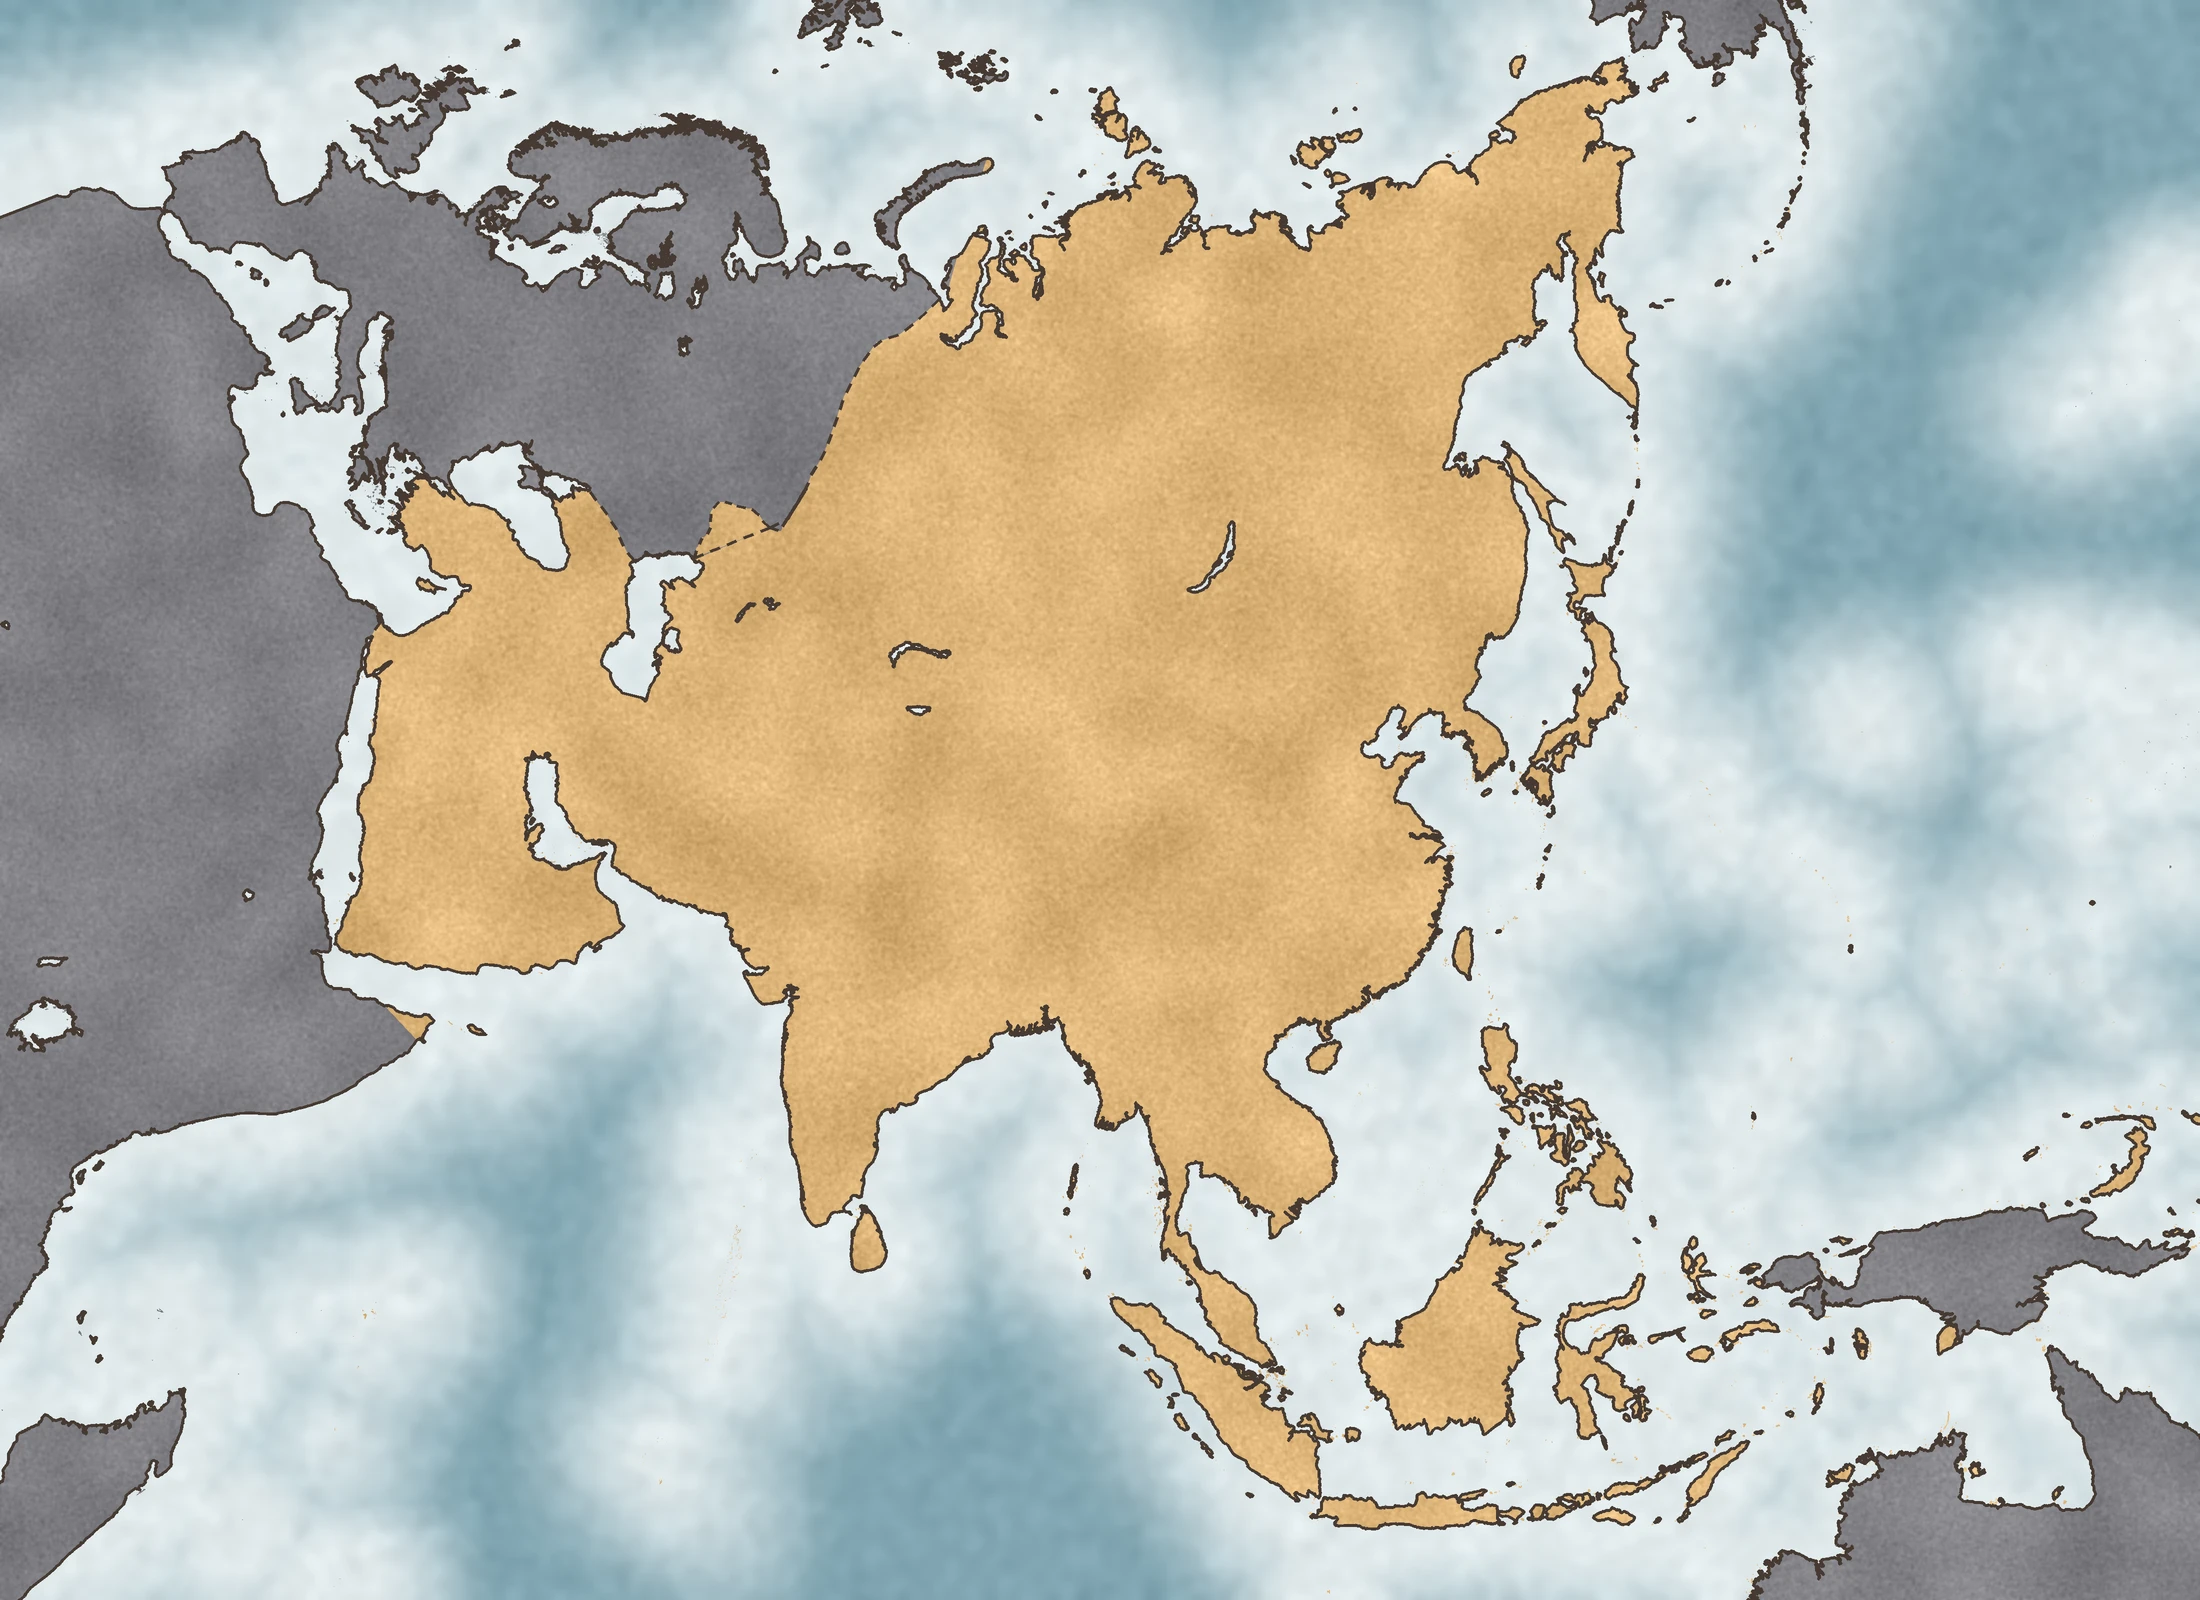
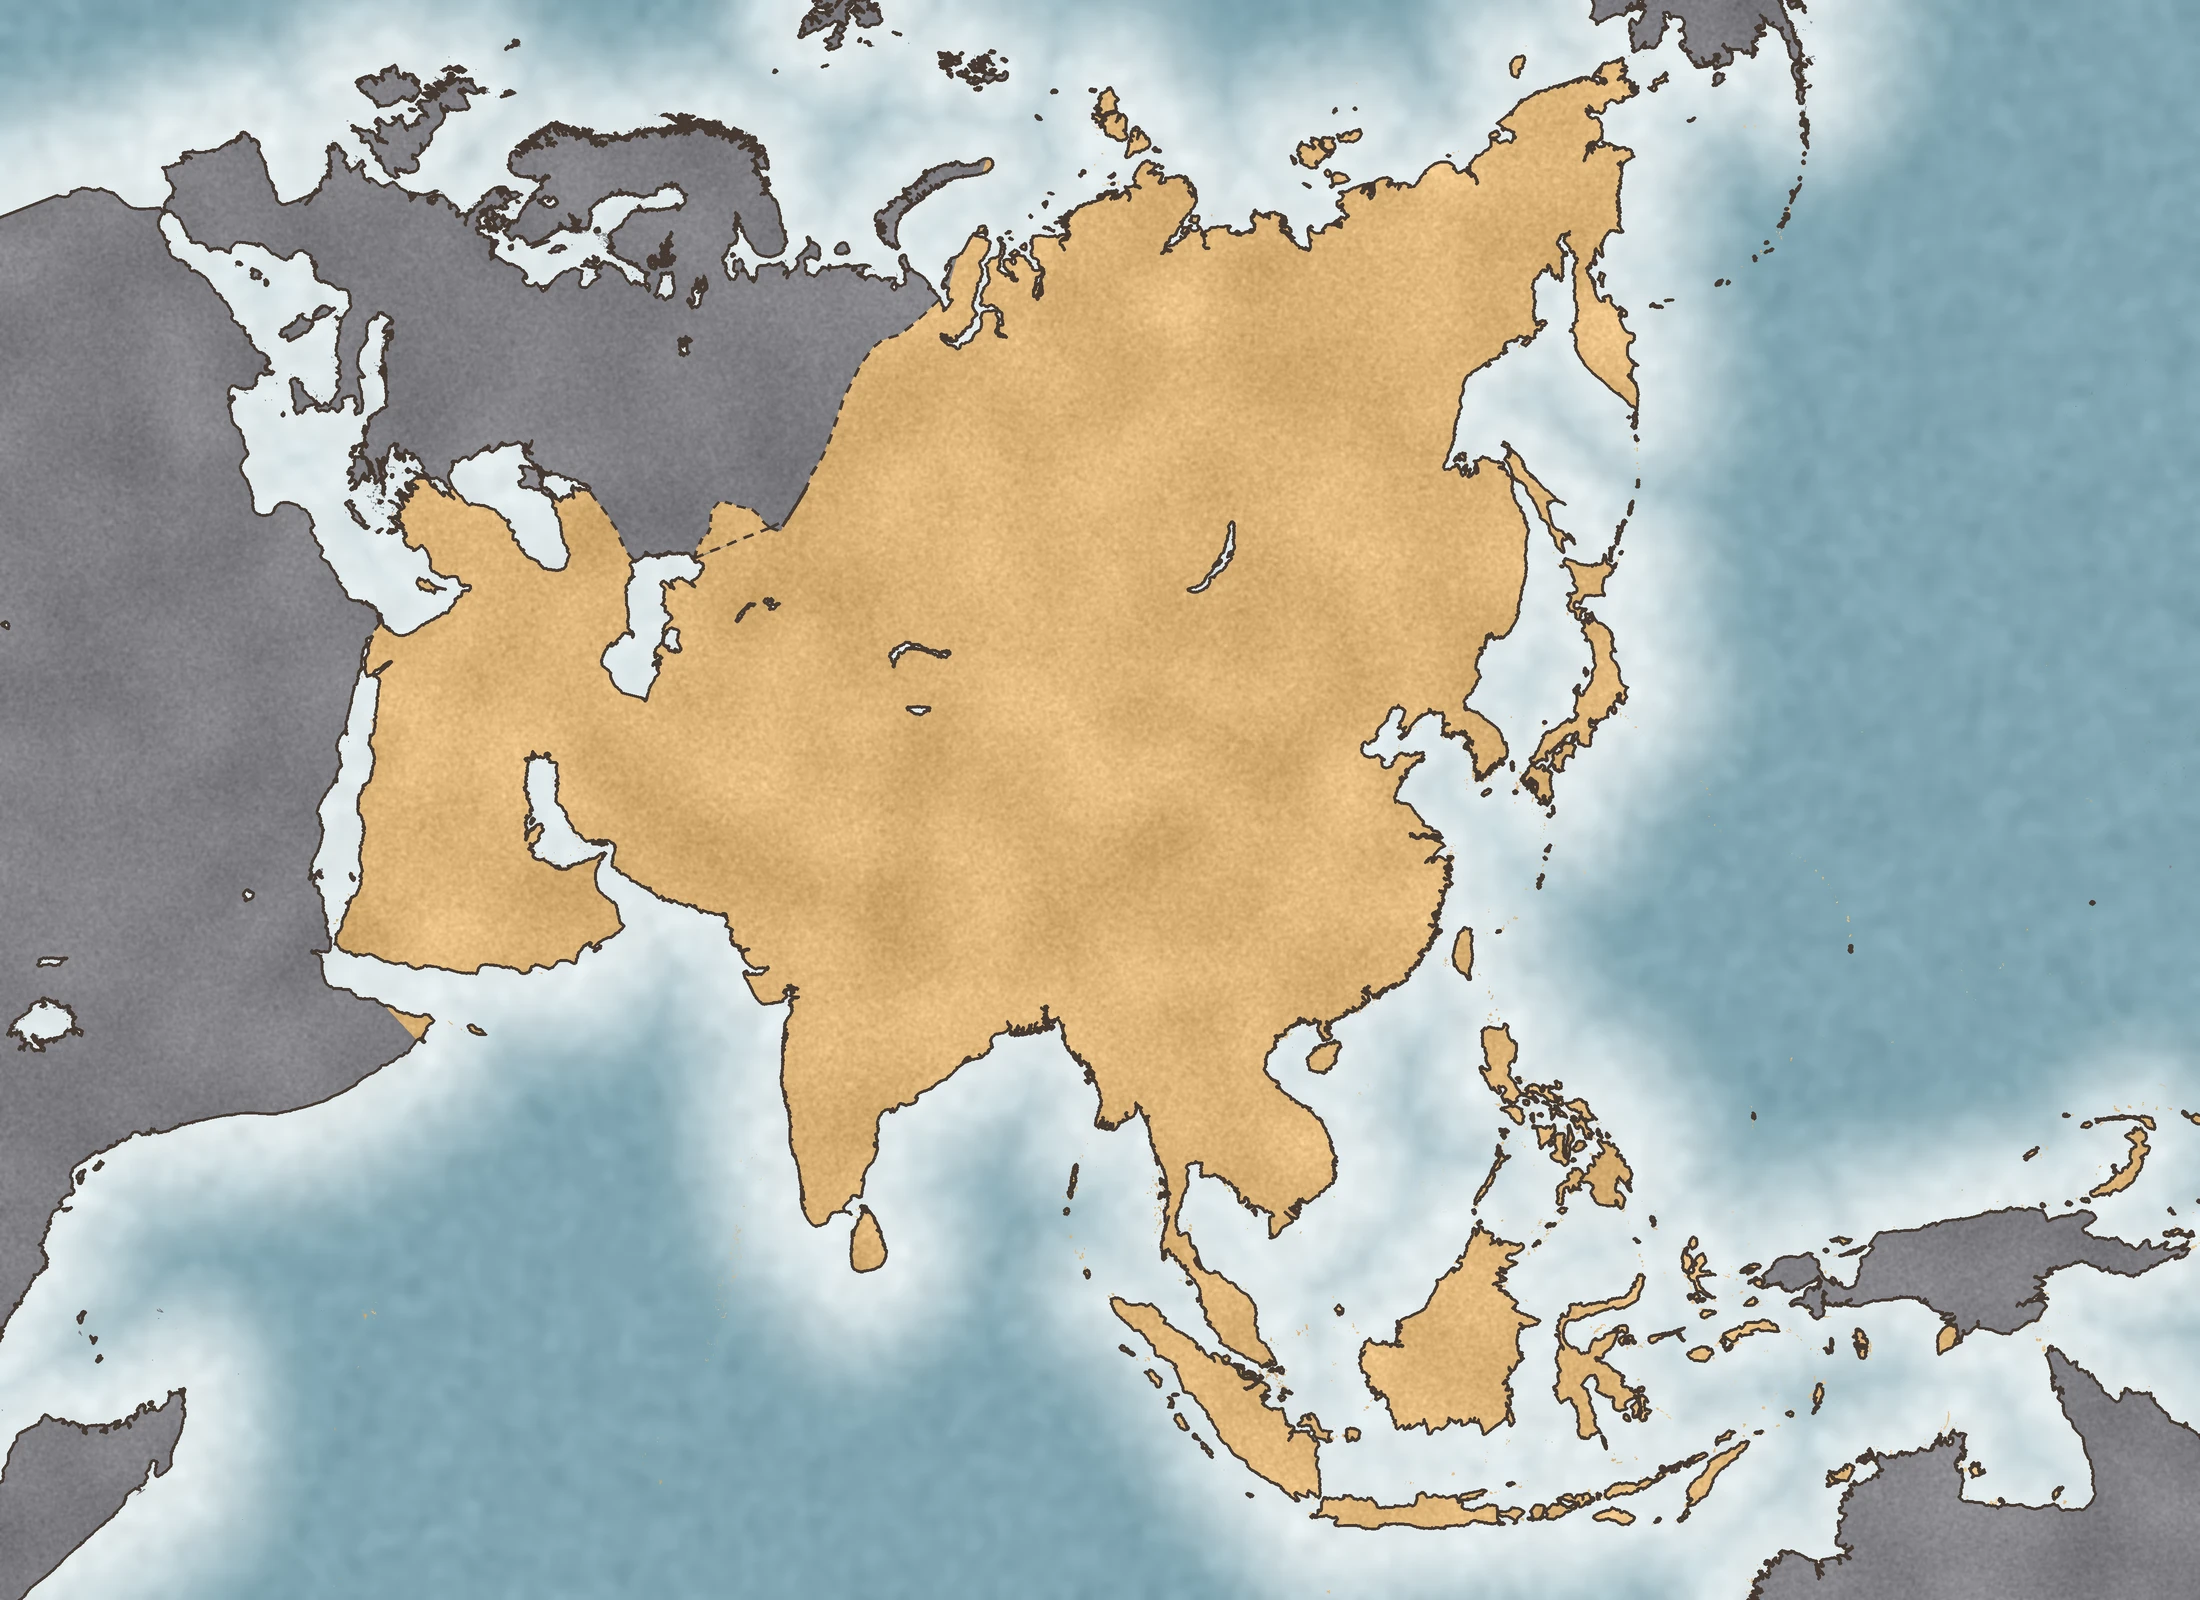
Asia section 1: add the Chukchi Peninsula; ocean colour as on the Europe map
- Chukotka in unit 2 «Peninsulas of Asia» (fact approved by Svetlana 29.10.2026): tap area east of Kolyuchin – Kresta Bay, lessons and place phrase; the approved finals stay as they are
- asia-blank.webp: the light shelf water follows the big coasts only, so the open Pacific is deep blue like the Europe map (the specks of the Pacific islands had whitened it)
- build 2026.10.29-asia-1b

Claude-Session: https://claude.ai/code/session_01RLZPhRdqNo75VYFs1shAux

diff --git a/index.html b/index.html
@@ -49,7 +49,7 @@
           <button id="riversBtn" class="primary">Explore Rivers</button>
           <div id="riversProgress" class="home-progress">Nile River · 0/7 words (1 original + 6 practice)</div>
         </div>
-        <a class="lab-link" href="./app/?v=expedition-20261029-asia-1">🦊 Экспедиция · разделы 1 и 2 (черновики)</a>
+        <a class="lab-link" href="./app/?v=expedition-20261029-asia-1b">🦊 Экспедиция · разделы 1 и 2 (черновики)</a>
         <a class="lab-link" href="./lab/">🧪 Лаборатория карт · ручной тест новых карт</a>
         <div class="how-card">
           <div><span>1</span><p>Learn the facts you will need</p></div>

diff --git a/app/index.html b/app/index.html
@@ -10,12 +10,12 @@
   <link rel="preconnect" href="https://fonts.googleapis.com">
   <link rel="preconnect" href="https://fonts.gstatic.com" crossorigin>
   <link rel="stylesheet" href="https://fonts.googleapis.com/css2?family=Rubik:wght@400;500;700;800&display=swap">
-  <link rel="stylesheet" href="./app.css?v=expedition-20261029-asia-1">
+  <link rel="stylesheet" href="./app.css?v=expedition-20261029-asia-1b">
 </head>
 <body>
   <div id="app" class="app" aria-live="polite">
     <div class="loading">Загружаем карту…</div>
   </div>
-  <script src="./app.js?v=expedition-20261029-asia-1"></script>
+  <script src="./app.js?v=expedition-20261029-asia-1b"></script>
 </body>
 </html>

diff --git a/tools/build_asia_overview.py b/tools/build_asia_overview.py
@@ -55,6 +55,8 @@ geo = {
   'as-kamchatka': named(regions, 'KAMCHATKA PENINSULA', key='NAME').buffer(0.3).intersection(landAt(159, 55)),
   # Natural Earth's TAYMYR PENINSULA covers only the Byrranga Mountains: the mainland north of the Yenisei Gulf – Khatanga Gulf line
   'as-taimyr': landAt(100, 74).intersection(Polygon([(80, 72.0), (87, 71.2), (106, 72.4), (114, 73.8), (114, 79), (80, 79)])),
+  # the Chukchi Peninsula: the mainland east of Kolyuchin Bay – Kresta Bay (Natural Earth's polygon is only its tip)
+  'as-chukotka': landAt(185, 66).intersection(Polygon([(174.5, 67.3), (178.5, 65.2), (180.0, 64.5), (192, 64.5), (192, 70), (174.5, 70)])),
   'as-japanese-islands': unary_union([landAt(138.5, 36.0), landAt(143.0, 43.5), landAt(131.0, 32.5), landAt(133.5, 33.7)]),
   'as-sakhalin': landAt(142.8, 50.5),
   'as-sri-lanka': landAt(80.7, 7.8),
@@ -90,6 +92,7 @@ ORDER = [
  ('as-korean-peninsula', 'peninsula', 2, 'Korean Peninsula', 'Корейский полуостров'),
  ('as-kamchatka', 'peninsula', 2, 'Kamchatka', 'Камчатка'),
  ('as-taimyr', 'peninsula', 2, 'Taimyr Peninsula', 'Таймыр'),
+ ('as-chukotka', 'peninsula', 2, 'Chukchi Peninsula', 'Чукотский полуостров'),
  ('as-japanese-islands', 'island', 3, 'Japanese Islands', 'Японские острова'),
  ('as-sakhalin', 'island', 3, 'Sakhalin', 'Сахалин'),
  ('as-sri-lanka', 'island', 3, 'Sri Lanka', 'Шри-Ланка'),
@@ -109,7 +112,7 @@ for i, (id_, kind, unit, en, ru) in enumerate(ORDER, 1):
         it['tapArea'] = [rnd(c.exterior.coords)]
     else:
         ps = polys(geo[id_])
-        if kind == 'ocean':
+        if kind == 'ocean' or id_ == 'as-chukotka':
             # a strait is the border between oceans, not a part of one: its round tap area is cut out of the ocean
             cut = unary_union([circle(*POINT[k]) for k in POINT])
             ps = [q for p in ps for q in getattr(p.difference(cut), 'geoms', [p.difference(cut)]) if isinstance(q, Polygon) and q.area >= 0.02]

diff --git a/tools/build_asia_blank.py b/tools/build_asia_blank.py
@@ -42,13 +42,15 @@ def mask(g):
 
 L = mask(land)
 A = mask(asia) & L
+# the shelf (light water) follows the big coasts only: the specks of the Pacific islands would whiten the open ocean
+big = unary_union([p for p in polys(land) if p.area >= 1.0])
 rng = np.random.default_rng(7)
 def noise(sigma, amp):
     return gaussian_filter(rng.standard_normal((H, W)), sigma) * amp / gaussian_filter(rng.standard_normal((H, W)), sigma).std()
 
 # water: light near the coast, deeper away from it, with soft blotches like the Europe maps
-dist = distance_transform_edt(~L) / S
-t = np.clip(dist / 170 + noise(70 * S, 0.1), 0, 1)
+dist = distance_transform_edt(~mask(big)) / S
+t = np.clip(dist / 150 + noise(70 * S, 0.06), 0, 1)
 t = t * t * (3 - 2 * t)
 water = np.array(SHALLOW)[None, None] * (1 - t[..., None]) + np.array(DEEP)[None, None] * t[..., None]
 img = water + noise(6 * S, 3)[..., None]
